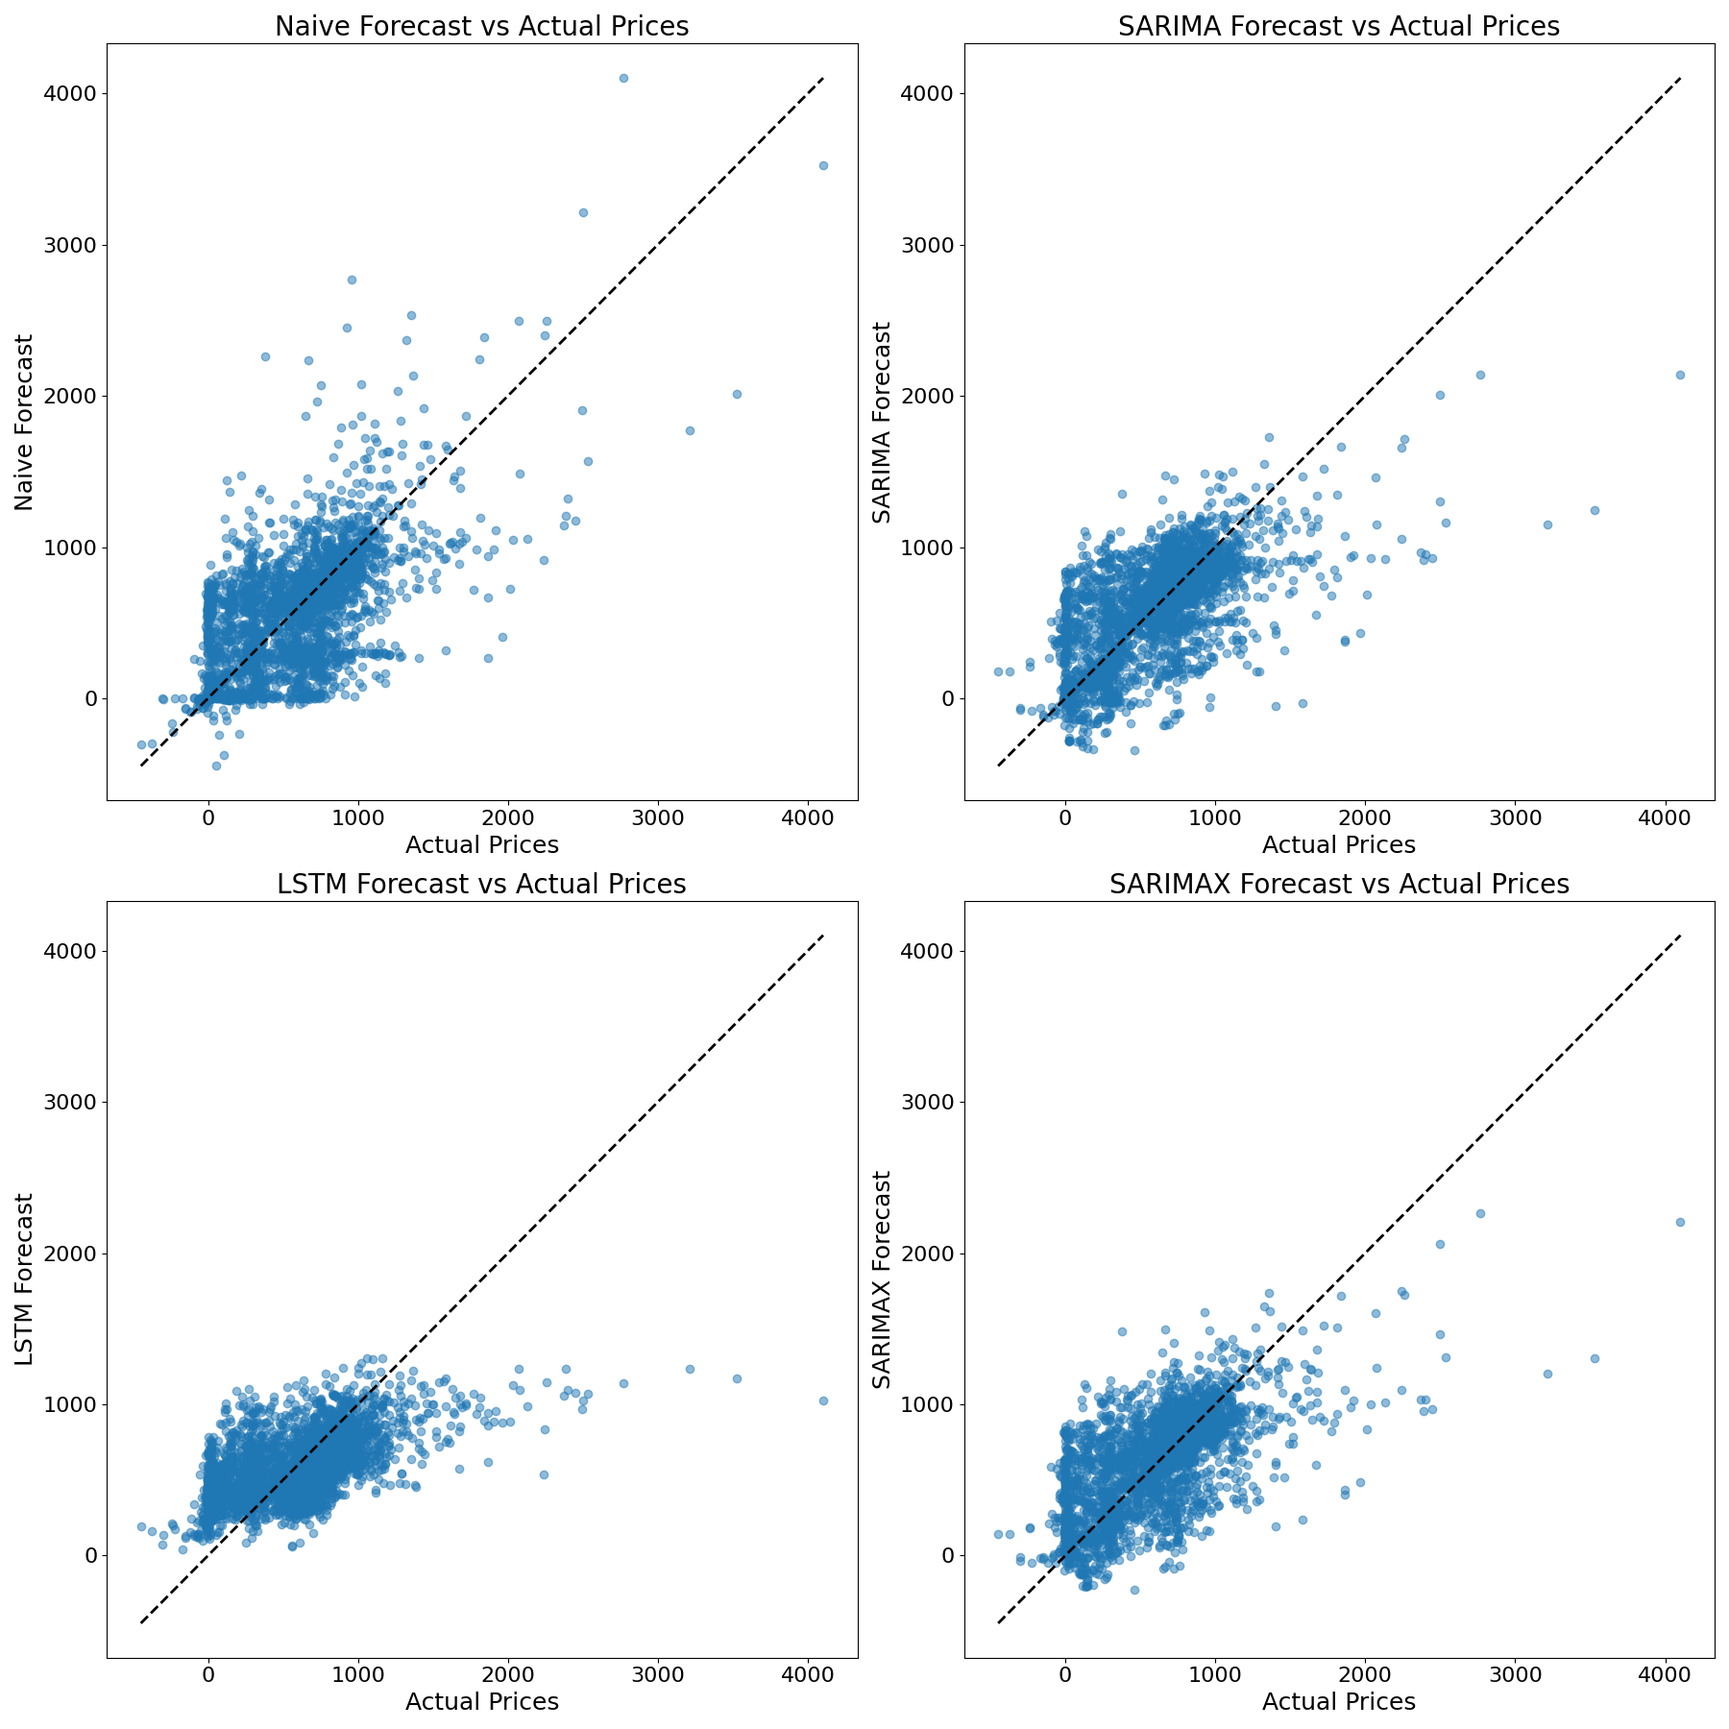
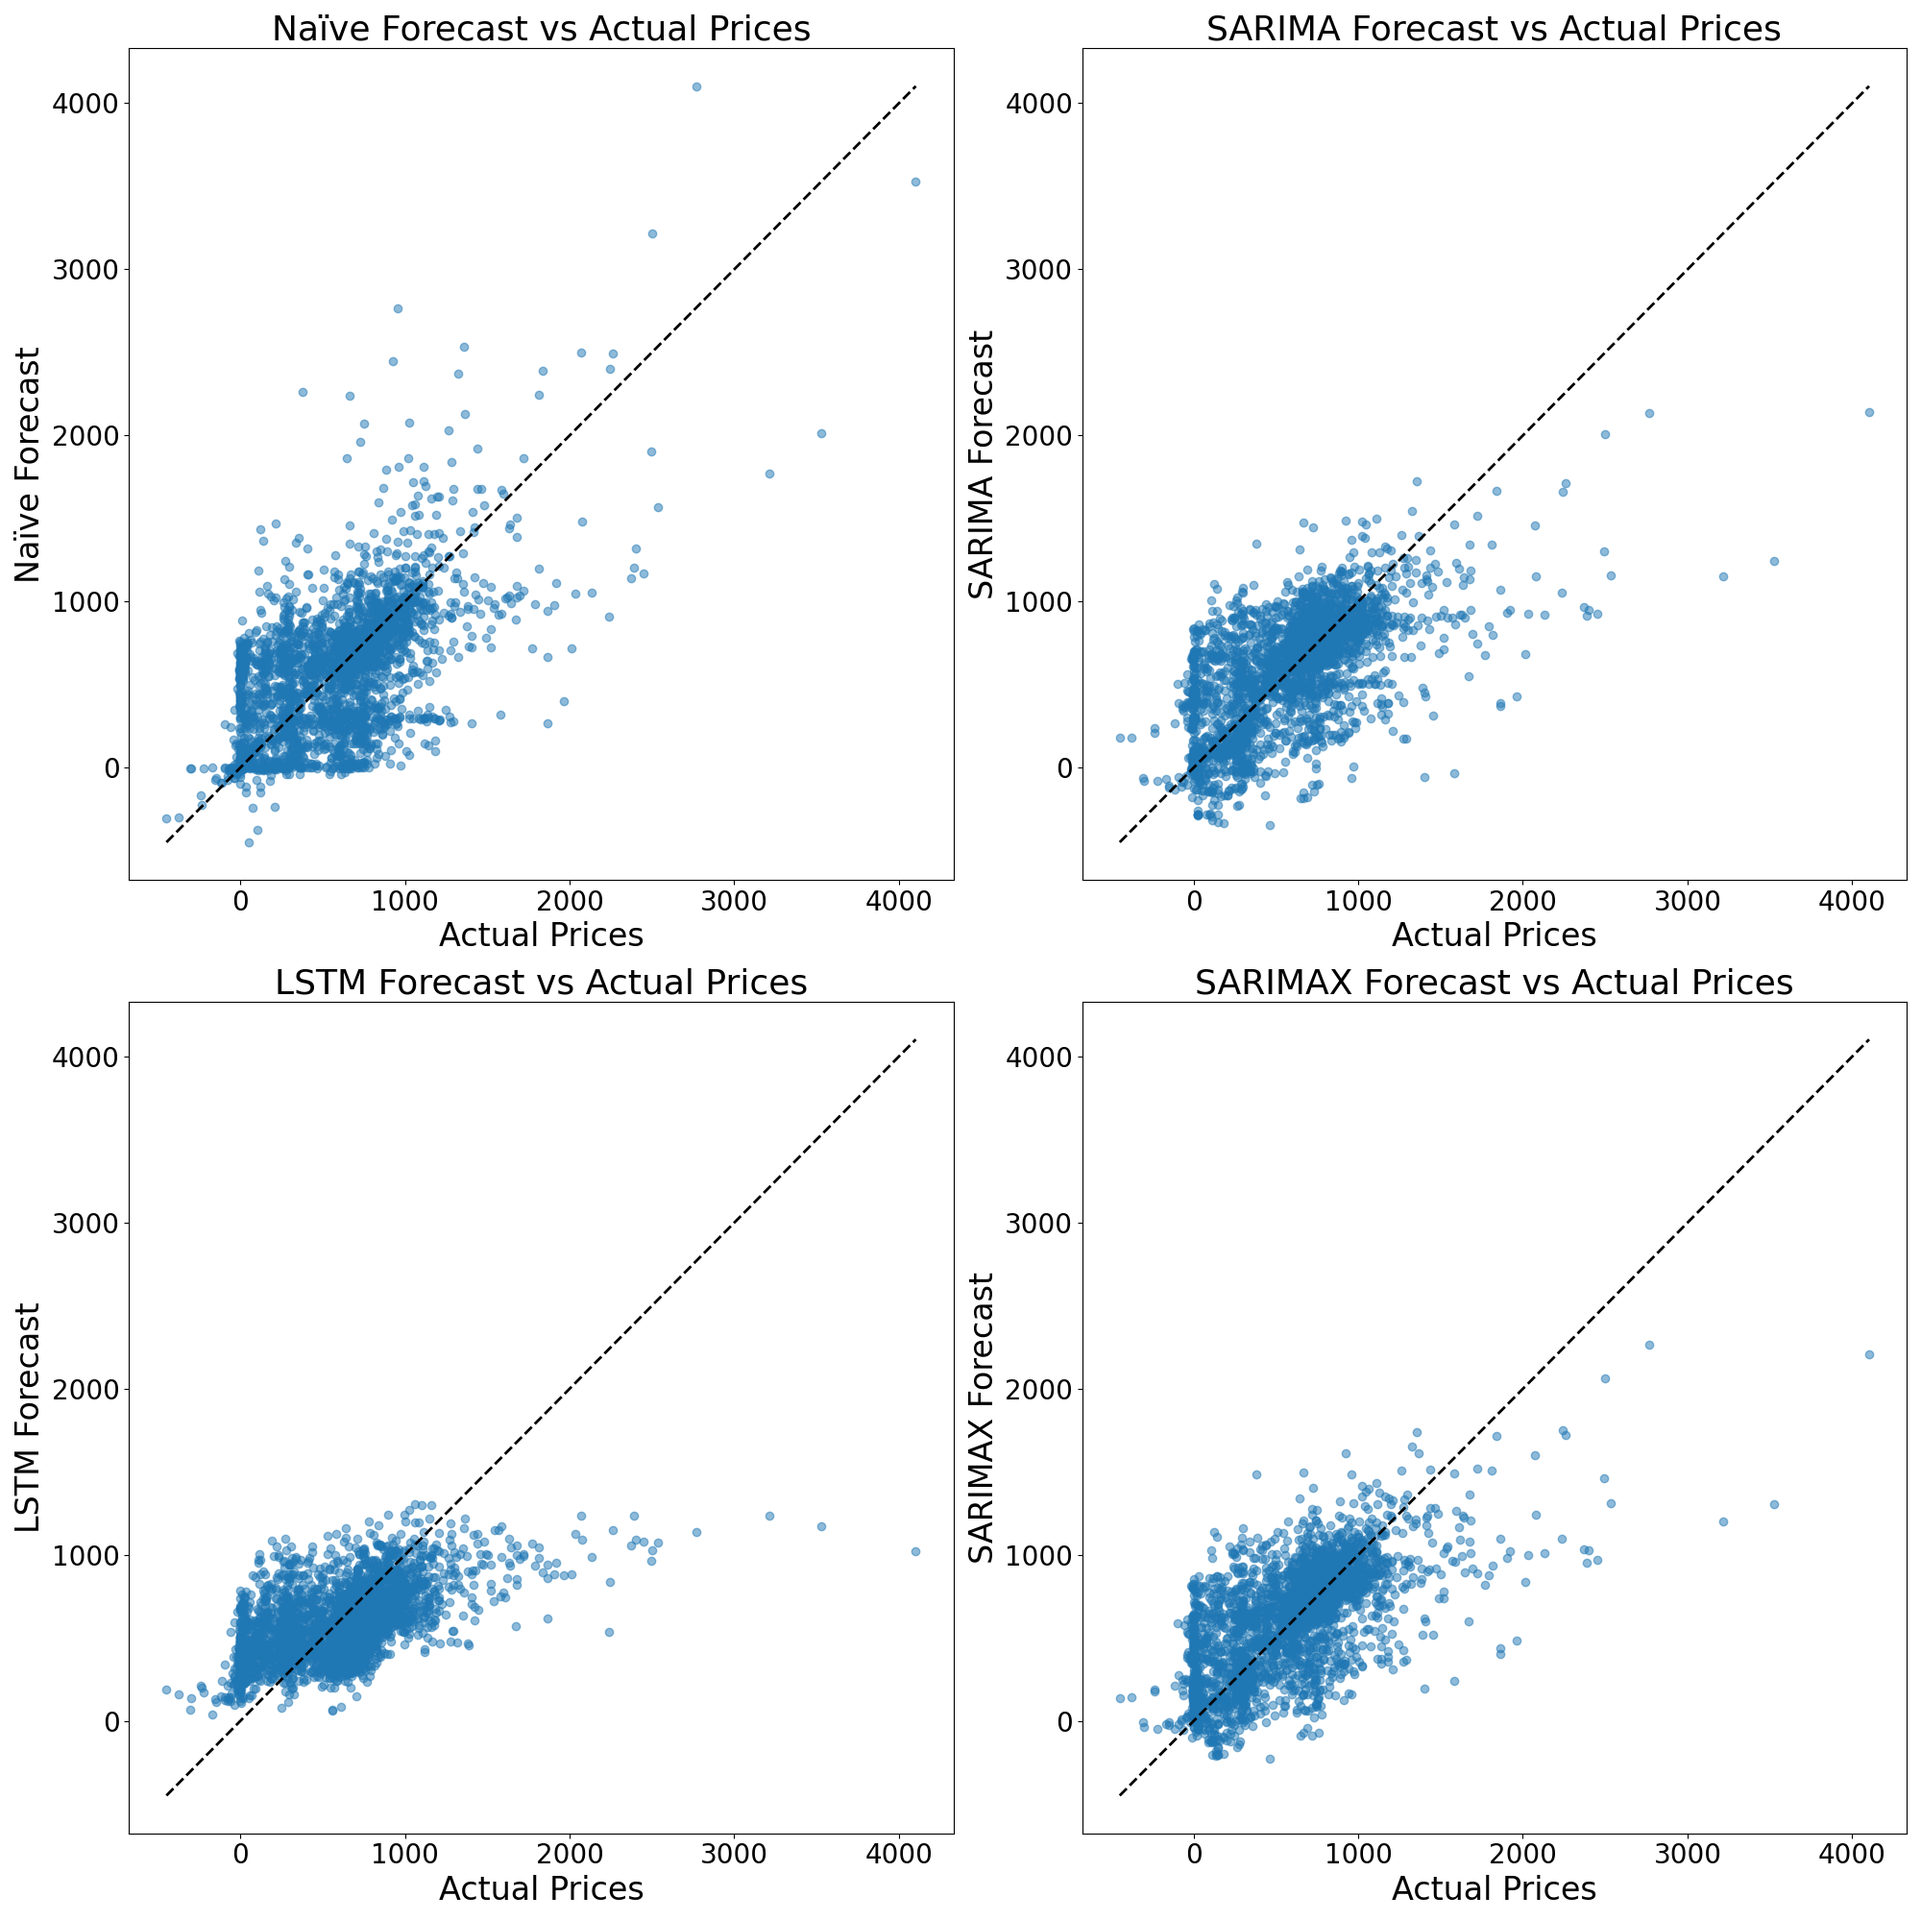
Updated spelling

diff --git a/Modelling/modelling.py b/Modelling/modelling.py
@@ -190,7 +190,7 @@ def plot_forecasts(
     Parameters:
     - timestamps: pandas.Series or numpy.array of datetime values.
     - actuals: pandas.Series or numpy.array of actual values.
-    - naive: pandas.Series or numpy.array of naive forecast values.
+    - naive: pandas.Series or numpy.array of naïve forecast values.
     - sarima_forecast: pandas.Series or numpy.array of SARIMA forecast values.
     - sarimax_forecast: pandas.Series or numpy.array of SARIMAX forecast values.
     - lstm_forecast: pandas.Series or numpy.array of LSTM forecast values.
@@ -216,7 +216,7 @@ def plot_forecasts(
 
     # Define models and their labels/colors
     models = [
-    ("Naive Forecast", filtered_naive, '#ff7f0e'),
+    ("Naïve Forecast", filtered_naive, '#ff7f0e'),
     ("SARIMA Forecast", filtered_sarima_forecast, '#e377c2'),
     ("LSTM Forecast", filtered_lstm_forecast, '#d62728'),
     ("SARIMAX Forecast", filtered_sarimax_forecast, '#bcbd22'),
@@ -269,11 +269,11 @@ def plot_forecast_scatter(
     - display_plot: bool, whether to display the plot (default: False).
     """
     # Create a 2x2 grid of subplots
-    fig, axs = plt.subplots(2, 2, figsize=(18, 18))
+    fig, axs = plt.subplots(2, 2, figsize=(20, 20))
 
     # Define models and their labels
     models = [
-        ("Naive Forecast", naive),
+        ("Naïve Forecast", naive),
         ("SARIMA Forecast", sarima_forecast),
         ("LSTM Forecast", lstm_forecast),
         ("SARIMAX Forecast", sarimax_forecast),
@@ -287,10 +287,10 @@ def plot_forecast_scatter(
     for ax, (label, forecast) in zip(axs.flat, models):
         ax.scatter(actuals, forecast, alpha=0.5)
         ax.plot([min_price, max_price], [min_price, max_price], 'k--', lw=2)  # Diagonal reference line
-        ax.set_xlabel('Actual Prices', fontsize=18)
-        ax.set_ylabel(label, fontsize=18)
-        ax.set_title(f'{label} vs Actual Prices', fontsize=20)
-        ax.tick_params(axis='both', which='major', labelsize=16)
+        ax.set_xlabel('Actual Prices', fontsize=24)
+        ax.set_ylabel(label, fontsize=24)
+        ax.set_title(f'{label} vs Actual Prices', fontsize=26)
+        ax.tick_params(axis='both', which='major', labelsize=20)
 
     # Adjust layout to prevent overlap
     plt.tight_layout()

diff --git a/Modelling/output/results.tex b/Modelling/output/results.tex
@@ -1,6 +1,6 @@
 \begin{tabular}{lcccc}
 \hline\hline \\ [-1.8ex]
- & Naive & SARIMA & SARIMAX & LSTM \\ 
+ & Naïve & SARIMA & SARIMAX & LSTM \\ 
  \hline 
 RMSE & 354.00 & 318.47 & 313.63 & 324.04 \\ 
  & - & (0.037) & (0.011) & (0.133) \\ 
